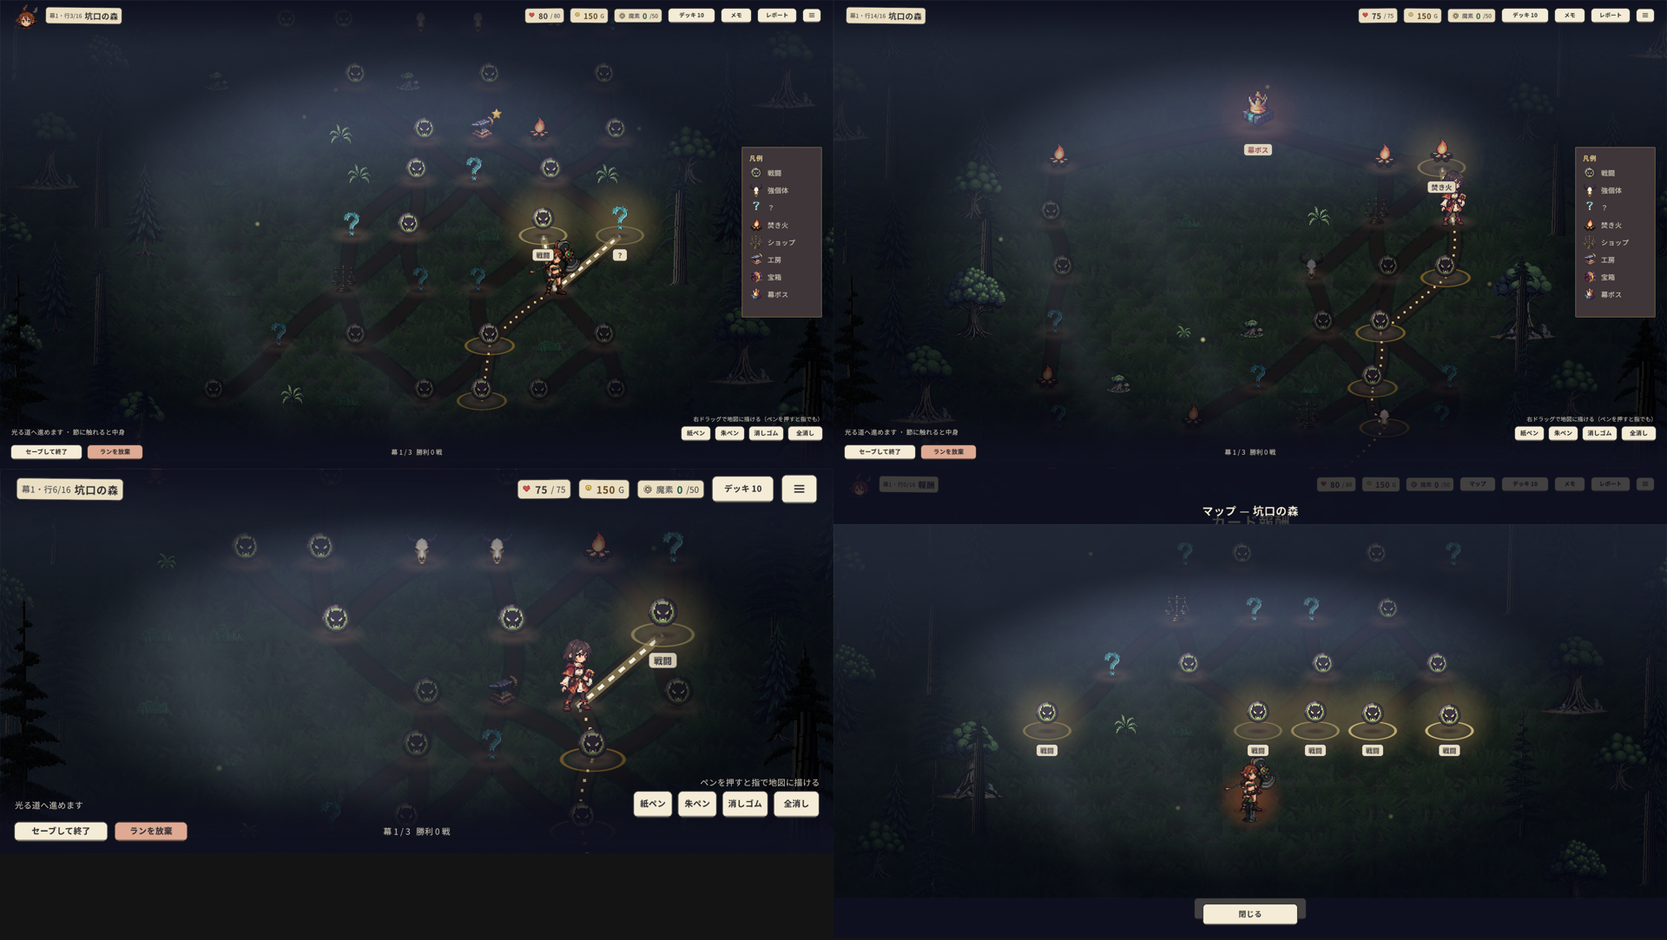
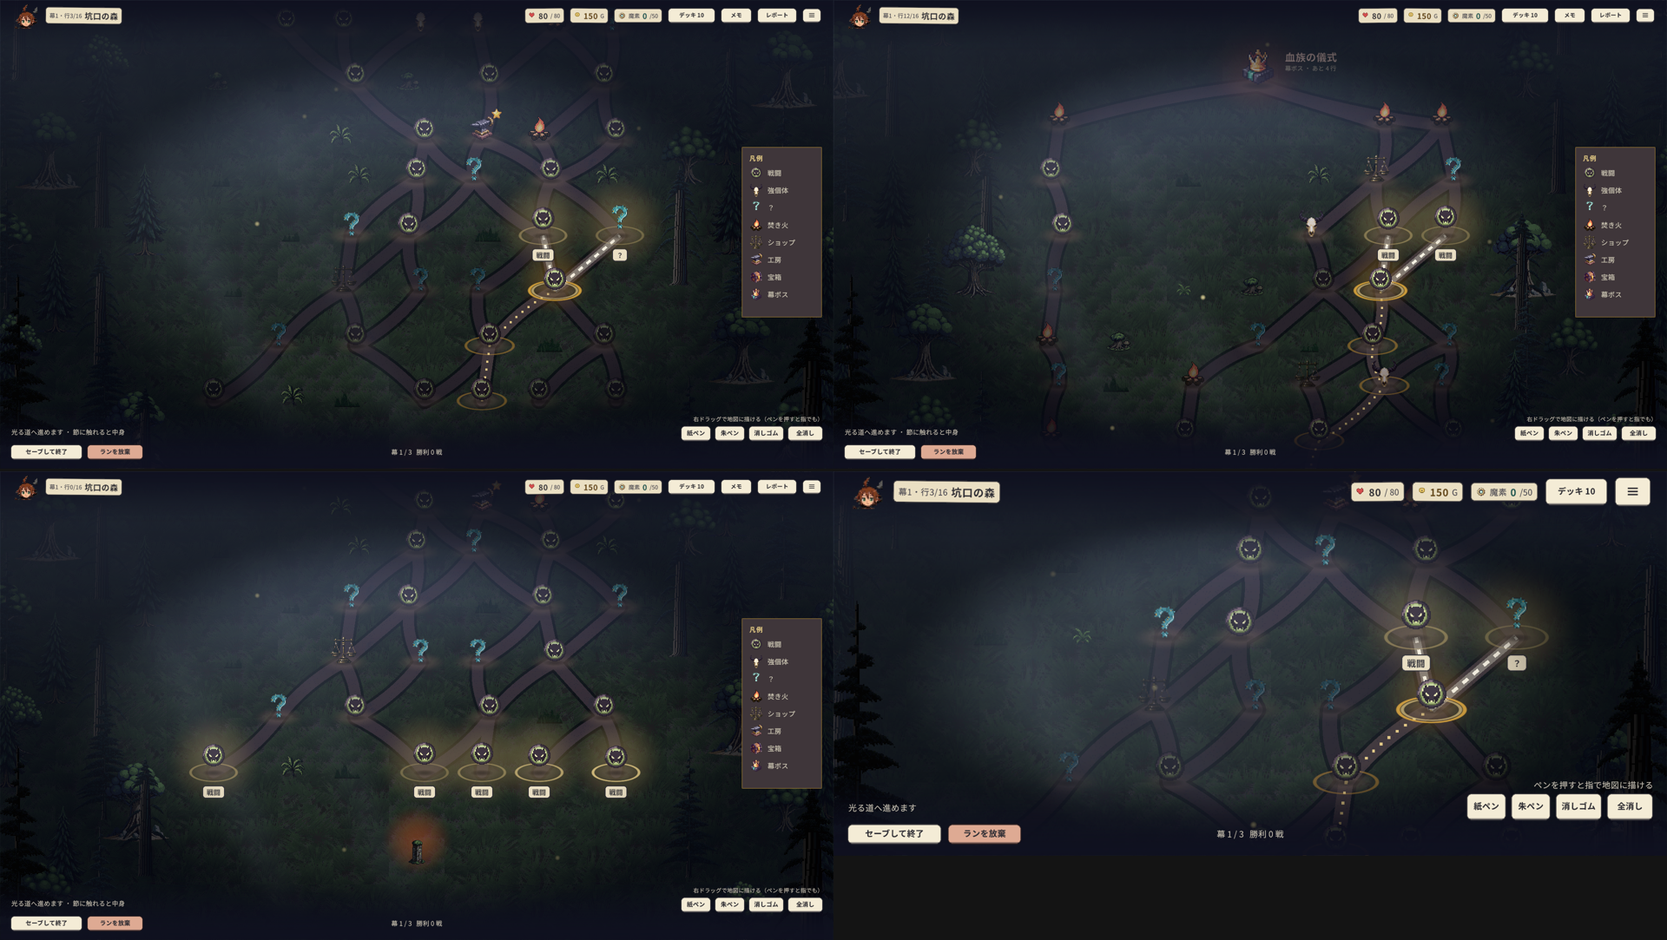
ui(map): 道をデザイン案どおりに（sRGB で焼いた土の帯・丸い端・カンバスと同じ重ね順）／地図からキャラを外す（現在地は真鍮の二重の輪）
ユーザー「道が醜すぎる。デザイン案と全然違う」「マップにキャラいらない」。
- 原因: カンバスの α の帯は sRGB の重ね。Linear の Unity で同じ α を重ねると濁った暗い茶色になっていた
- MapForest.DirtState: 土の絵に夜の色を sRGB の式で焼く（.52/.62/.72）・LinearAlpha で暗い縁の α を換算・MapTrail.RoundCaps
- 駒と歩く動きを廃止・現在地は真鍮の二重の輪と光・ボスの名札は印の右に名前と「あと N 行」
- 明るさをカンバスに合わせた（地面 0.66・霧 0.30 ほか）

Claude-Session: https://claude.ai/code/session_01235vjjauSY25VrpCPXwiZo

diff --git a/unity/Assets/Game/MapScreen.cs b/unity/Assets/Game/MapScreen.cs
@@ -1,7 +1,7 @@
 // MapScreen.cs — マップ画面 (M3・2026-09-07): 本家式の縦スクロール地図。
 // 2026-10-28 品質スプリント 案1「夜の森の絵地図」(カンバス https://claude.ai/artifact/C8WiiTPfMSPD4jPFE2pi92 の Main・ユーザー裁定):
 // 戦闘の森 (幕1 の箱庭) の地面・道・木・岩の絵で、見下ろしの絵地図を組む。地面は夜の草のタイル (1ドット=2px)、道は土の踏み跡、
-// 節は空き地に立つ 32 ドットの印 (2倍)、両脇は針葉樹、上は霧に沈む。現在地にはリーダーが立ち、選ぶと踏み跡を歩いてから進む。
+// 節は空き地に立つ 32 ドットの印 (2倍)、両脇は針葉樹、上は霧に沈む。現在地は真鍮の輪 (地図にキャラは置かない。2026-10-28 ユーザー「マップにキャラいらない」)。
 // 材料 (夜の色に焼いた複製・踏み跡の帯・蛍の動き) は MapForest.cs。
 using System;
 using System.Collections.Generic;
@@ -19,10 +19,6 @@ namespace DeckRogue.Game
         const float RowH = 120f;       // 1行の高さ
         const float PadY = 220f;       // 上下の余白 (下は出発の道標と駒・下のボタンの帯、上はボスの名札)
         static float _ox = 0f;         // 節の格子の左端 (content の中の x)。地図は画面の幅いっぱいなので、格子を中央へ寄せる
-        static RectTransform _marker;  // 現在地の駒 (選んだ節へ歩いてから命令を出す)
-        static bool _walking;
-        static Vector2 _markerOff;     // 節の中心から駒の pivot まで (足元を節の 8px 下に)
-        const float MarkerDot = 2f;    // 駒は 1ドット＝2px (地面と同じ粒)
         static float NodeSize { get { return UiKit.Phone ? 74f : 60f; } }   // 画面の切り欠きの寄せの目安 (2026-09-14)
         const int Cols = 7;
 
@@ -49,7 +45,6 @@ namespace DeckRogue.Game
             int recipeCount = 0;   // ⭐ いま手元で作れるレシピ対の数 (工房ノードに添える。2026-09-12)
             try { recipeCount = Fusion.RecipePairsInDeck(run.Deck).Count; } catch (Exception) { }
 
-            _walking = false; _marker = null;
             var view = UiKit.NewRect("mapview", root);
             // 画面の切り欠き (パンチホール＝左端の縦の中央) に左の列のノードが掛かる狭い端末では、格子を右へ寄せる (2026-09-29 p10。S25 と PC は 0)
             var mcs = BattleScreen.CanvasSize(root);
@@ -123,10 +118,14 @@ namespace DeckRogue.Game
                 }
             }
 
-            // 踏み跡 (土の帯の下に暗い縁・上に夜の帯。通った道は真鍮の足跡、進める道は光る破線)。帯は 3 枚の Graphic (縁／土／上の重ね)
+            // 踏み跡 (カンバスの案1 と同じ: 暗い縁 38 の上に、土に夜の色を焼いた帯 26 を まだ先 → 通らなかった → 通った → 進める の順に重ね、
+            // 通った道は真鍮の足跡、進める道は光る破線。帯の端は丸い = 節でなめらかにつながる。2026-10-28 ユーザー「道が醜すぎる」)
             var trailBase = Trail(content, "trail-base", null);
-            var trailDirt = Trail(content, "trail-dirt", MapForest.Dirt(run.Act));
+            var trailFuture = Trail(content, "trail-future", MapForest.DirtState(run.Act, 1), 64f);
+            var trailPassed = Trail(content, "trail-passed", MapForest.DirtState(run.Act, 2), 64f);
+            var trailTaken = Trail(content, "trail-taken", MapForest.DirtState(run.Act, 0), 64f);
             var trailTop = Trail(content, "trail-top", null);
+            trailTop.RoundCaps = false;
             var edges = new List<Vector2[]>();
             for (int r = 0; r < rows - 1; r++)
             {
@@ -145,15 +144,13 @@ namespace DeckRogue.Game
                         Vector2 a = NodePos(n, r), b = NodePos(run.Map[r + 1][j], r + 1);
                         edges.Add(new[] { a, b });
                         var pts = Curve(a, b, r + (n.Col ?? 0));
-                        trailBase.Add(pts, 38f, new Color(0.02f, 0.03f, 0.06f, 0.55f));
-                        if (trailDirt.Tex != null) trailDirt.Add(pts, 26f, Color.white);
-                        else trailDirt.Add(pts, 26f, new Color(0.36f, 0.30f, 0.26f, 1f));
-                        Color night = taken || avail ? new Color(0.04f, 0.05f, 0.08f, 0.22f) : passed ? new Color(0.03f, 0.035f, 0.06f, 0.62f) : new Color(0.035f, 0.04f, 0.07f, 0.42f);
-                        trailTop.Add(pts, 26f, night);
-                        if (taken) trailTop.Add(pts, 5f, new Color(PaperFx.BrassLight.r, PaperFx.BrassLight.g, PaperFx.BrassLight.b, 0.9f), 2f, 16f);
+                        trailBase.Add(pts, 38f, new Color(0.024f, 0.031f, 0.063f, MapForest.LinearAlpha(0.55f)));   // rgba(6,8,16,.55)
+                        var band = taken || avail ? trailTaken : passed ? trailPassed : trailFuture;
+                        band.Add(pts, 26f, band.Tex != null ? Color.white : new Color(0.27f, 0.22f, 0.25f, 1f));
+                        if (taken) trailTop.Add(pts, 5f, new Color(PaperFx.BrassLight.r, PaperFx.BrassLight.g, PaperFx.BrassLight.b, 0.9f), 2f, 16f);   // 足跡 (1 17 の点)
                         if (avail)
                         {
-                            trailTop.Add(pts, 16f, new Color(PaperFx.BrassLight.r, PaperFx.BrassLight.g, PaperFx.BrassLight.b, 0.22f));
+                            trailTop.Add(pts, 14f, new Color(PaperFx.Paper3.r, PaperFx.Paper3.g, PaperFx.Paper3.b, 0.18f));   // 破線のにじみ (カンバスの glow)
                             trailTop.Add(pts, 6f, new Color(PaperFx.Paper3.r, PaperFx.Paper3.g, PaperFx.Paper3.b, 0.95f), 12f, 12f);
                         }
                     }
@@ -198,29 +195,7 @@ namespace DeckRogue.Game
             var doodle = doodleRt.gameObject.AddComponent<DoodleLayer>();
             doodle.Root = g; doodle.Strokes = g.DoodlesFor(run.Act); doodle.Editable = !overlay; doodle.raycastTarget = !overlay;
 
-            // 現在地の駒 (リーダーの絵を 1ドット＝2px で節の上に立てる。選ぶと踏み跡を歩く)
-            {
-                Vector2 at = run.Row >= 0 ? NodePos(run.Map[run.Row][run.Col], run.Row) : startPos;
-                var spr = Creature.Get("leaders", run.LeaderId, true);
-                var sh = UiKit.Pan(content, Color.white, "marker-shadow"); sh.sprite = ThemeFx.Shadow(); sh.raycastTarget = false;
-                Place(sh.rectTransform, at + new Vector2(0f, -8f), new Vector2(92f, 22f), new Vector2(0.5f, 0.5f));
-                var mk = new GameObject("marker", typeof(RectTransform), typeof(Image)).GetComponent<Image>();
-                mk.transform.SetParent(content, false);
-                mk.raycastTarget = false;
-                mk.sprite = spr;
-                float mw = spr != null ? spr.rect.width * MarkerDot : 128f, mh = spr != null ? spr.rect.height * MarkerDot : 128f;
-                float feet = spr != null ? Stage.FeetPad(spr) * mh : 0f;
-                float cx = MapForest.VisibleCenterX(spr);
-                mk.rectTransform.anchorMin = mk.rectTransform.anchorMax = new Vector2(0f, 0f);
-                mk.rectTransform.pivot = new Vector2(cx, 0f);
-                mk.rectTransform.sizeDelta = new Vector2(mw, mh);
-                _markerOff = new Vector2(0f, -8f - feet);
-                mk.rectTransform.anchoredPosition = at + _markerOff;
-                _marker = mk.rectTransform;
-                var follow = sh.gameObject.AddComponent<FollowMarker>(); follow.Marker = mk.rectTransform; follow.Offset = new Vector2(0f, feet);
-                Tween.Punch(mk.rectTransform, 0.12f, 0.6f, true);
-            }
-            labels.SetAsLastSibling();     // 名札は駒の上
+            labels.SetAsLastSibling();     // 名札は道と節の上
             doodleRt.SetAsLastSibling();   // 落書きはいちばん上 (右ドラッグ/ペンモードの時だけ入力を受ける)
 
             // 蛍 (森の上をゆっくり漂って明滅)
@@ -293,17 +268,6 @@ namespace DeckRogue.Game
             }
         }
 
-        /// <summary>駒の影を駒の足元に付いて行かせる (歩く間も)</summary>
-        class FollowMarker : MonoBehaviour
-        {
-            public RectTransform Marker; public Vector2 Offset;
-            void LateUpdate()
-            {
-                if (Marker == null) return;
-                ((RectTransform)transform).anchoredPosition = Marker.anchoredPosition + Offset;
-            }
-        }
-
         static long Key(int r, int c) { return ((long)r << 16) | (uint)c; }
 
         static Vector2 GridPos(int col, int row)
@@ -332,7 +296,7 @@ namespace DeckRogue.Game
             return pts;
         }
 
-        static MapTrail Trail(RectTransform content, string name, Texture tex)
+        static MapTrail Trail(RectTransform content, string name, Texture tex, float texPx = 128f)
         {
             var go = new GameObject(name, typeof(RectTransform), typeof(CanvasRenderer));
             go.transform.SetParent(content, false);
@@ -340,7 +304,7 @@ namespace DeckRogue.Game
             rt.anchorMin = Vector2.zero; rt.anchorMax = Vector2.one; rt.pivot = Vector2.zero;
             rt.offsetMin = Vector2.zero; rt.offsetMax = Vector2.zero;
             var t = go.AddComponent<MapTrail>();
-            t.Tex = tex; t.TexPx = 128f; t.raycastTarget = false;
+            t.Tex = tex; t.TexPx = texPx * 2f; t.raycastTarget = false;
             return t;
         }
 
@@ -420,7 +384,7 @@ namespace DeckRogue.Game
                     if (!clear) continue;
                     var sp = MapForest.Graded(relief + small[rnd.Next(small.Length)], 0.7f, 10f);
                     if (sp == null) continue;
-                    var img = Pic(content, "prop", sp, 0.72f + (float)rnd.NextDouble() * 0.12f);
+                    var img = Pic(content, "prop", sp, 0.5f + (float)rnd.NextDouble() * 0.1f);
                     Place(img.rectTransform, p, new Vector2(sp.rect.width, sp.rect.height), new Vector2(0.5f, 0f));
                 }
             }
@@ -436,9 +400,9 @@ namespace DeckRogue.Game
                 return img;
             }
             // 夜の青 (上ほど青く・下は暗く)
-            var gTop = Layer("grade-top", MapForest.VFade(), new Color(0.16f, 0.20f, 0.38f, 0.18f));
+            var gTop = Layer("grade-top", MapForest.VFade(), new Color(0.16f, 0.20f, 0.38f, 0.08f));
             UiKit.Anchor(gTop.rectTransform, new Vector2(0f, 0.5f), new Vector2(1f, 1f), Vector2.zero, Vector2.zero);
-            var gBot = Layer("grade-bottom", MapForest.VFade(), new Color(0.04f, 0.05f, 0.12f, 0.16f));
+            var gBot = Layer("grade-bottom", MapForest.VFade(), new Color(0.04f, 0.05f, 0.12f, 0f));
             UiKit.Anchor(gBot.rectTransform, new Vector2(0f, 0f), new Vector2(1f, 0.4f), Vector2.zero, Vector2.zero);
             gBot.rectTransform.localRotation = Quaternion.Euler(0f, 0f, 180f);
             // 月明かり (左上の手前から)
@@ -456,7 +420,7 @@ namespace DeckRogue.Game
                 sh.rectTransform.localRotation = Quaternion.Euler(0f, 0f, 24f);
             }
             // 上の霧 (遠い行ほど霞む)
-            var fog = Layer("fog", MapForest.VFade(), new Color(0.52f, 0.59f, 0.75f, 0.42f));
+            var fog = Layer("fog", MapForest.VFade(), new Color(0.52f, 0.59f, 0.75f, 0.30f));
             fog.rectTransform.anchorMin = new Vector2(0f, 1f); fog.rectTransform.anchorMax = new Vector2(1f, 1f);
             fog.rectTransform.pivot = new Vector2(0.5f, 1f);
             fog.rectTransform.sizeDelta = new Vector2(0f, Mathf.Min(560f, viewH * (UiKit.Phone ? 0.36f : 0.55f)));
@@ -509,12 +473,18 @@ namespace DeckRogue.Game
             Soft("clearing", MapForest.Radial(), new Color(0.41f, 0.35f, 0.31f, passed && !taken && !cur ? 0.32f : 0.62f), Vector2.zero, boss ? new Vector2(190f, 64f) : new Vector2(124f, 48f));
             Image ring = null;
             if (avail) ring = Soft("ring", MapForest.Ring(), new Color(PaperFx.BrassLight.r, PaperFx.BrassLight.g, PaperFx.BrassLight.b, 0.85f), new Vector2(0f, 0f), new Vector2(114f, 44f));
-            if (taken && !cur) Soft("ring-taken", MapForest.Ring(), new Color(PaperFx.Brass.r, PaperFx.Brass.g, PaperFx.Brass.b, 0.5f), Vector2.zero, new Vector2(118f, 44f));
-            if (!cur) Soft("shadow", ThemeFx.Shadow(), Color.white, new Vector2(0f, -1f), new Vector2(boss ? 80f : 54f, boss ? 20f : 15f));
+            if (cur)
+            {
+                // 現在地: 真鍮の輪を二重にして光らせる (キャラは置かない)
+                Soft("cur-glow", MapForest.Radial(), new Color(PaperFx.Brass.r, PaperFx.Brass.g, PaperFx.Brass.b, 0.32f), new Vector2(0f, 24f), new Vector2(190f, 170f));
+                Soft("ring-cur", MapForest.Ring(), PaperFx.Brass, Vector2.zero, new Vector2(126f, 48f));
+                Soft("ring-cur2", MapForest.Ring(), new Color(PaperFx.BrassLight.r, PaperFx.BrassLight.g, PaperFx.BrassLight.b, 0.7f), Vector2.zero, new Vector2(110f, 40f));
+            }
+            else if (taken) Soft("ring-taken", MapForest.Ring(), new Color(PaperFx.Brass.r, PaperFx.Brass.g, PaperFx.Brass.b, 0.5f), Vector2.zero, new Vector2(118f, 44f));
+            Soft("shadow", ThemeFx.Shadow(), Color.white, new Vector2(0f, -1f), new Vector2(boss ? 80f : 54f, boss ? 20f : 15f));
 
             // 印 (32 ドットを 2 倍。足元が空き地の中心の 4px 下。進める節は少し浮く)
             Image icon = null;
-            if (!cur)
             {
                 var nodeArt = Theme.Art("map", "node_" + n.Type);
                 icon = UiKit.Icon(cell, NodeIcon(n.Type), boss ? 56f : 34f);
@@ -524,20 +494,33 @@ namespace DeckRogue.Game
                 icon.rectTransform.pivot = new Vector2(0.5f, 0f);
                 icon.rectTransform.sizeDelta = new Vector2(asz, asz); UiKit.Le(icon, asz, asz, asz, asz);
                 icon.rectTransform.anchoredPosition = new Vector2(0f, avail ? 8f : -4f);
-                icon.color = avail || boss ? Color.white : taken ? new Color(0.64f, 0.62f, 0.66f, 1f) : passed ? new Color(0.42f, 0.42f, 0.48f, 0.8f) : new Color(0.86f, 0.86f, 0.9f, 1f);
+                icon.color = avail || boss || cur ? Color.white : taken ? new Color(0.64f, 0.62f, 0.66f, 1f) : passed ? new Color(0.42f, 0.42f, 0.48f, 0.8f) : new Color(0.86f, 0.86f, 0.9f, 1f);
                 if (avail && life != null) { life.Bobs.Add(icon.rectTransform); if (ring != null) life.Pulses.Add(ring); }
             }
 
-            // 名札 (進める節とボス)
-            if (avail || boss)
+            // ボスの名札 (カンバスの案1: 印の右に名前と「幕ボス ・ あと N 行」)
+            if (boss)
+            {
+                string bname = "幕ボス";
+                if (n.EncounterId != null) { try { bname = Content.EncounterName(n.EncounterId); } catch (Exception) { } }
+                int left = Math.Max(0, row - g.Rs.Row);
+                var bt = UiKit.Txt(labels, bname, 24, PaperFx.RoseLight, TextAnchor.MiddleLeft, true);
+                bt.outlineWidth = 0.22f; bt.outlineColor = new Color(0f, 0f, 0f, 0.85f); bt.raycastTarget = false;
+                Place(bt.rectTransform, at + new Vector2(62f, 66f), new Vector2(360f, 32f), new Vector2(0f, 0.5f));
+                var bs = UiKit.Txt(labels, "幕ボス ・ あと " + left + " 行", 14, PaperFx.PaperDim, TextAnchor.MiddleLeft);
+                bs.outlineWidth = 0.2f; bs.outlineColor = new Color(0f, 0f, 0f, 0.85f); bs.raycastTarget = false;
+                Place(bs.rectTransform, at + new Vector2(62f, 40f), new Vector2(360f, 22f), new Vector2(0f, 0.5f));
+            }
+            // 名札 (進める節)
+            if (avail && !boss)
             {
                 var tag = BattleScreen.Tag(labels, 30f, 0f);
                 tag.anchorMin = tag.anchorMax = Vector2.zero;
                 tag.pivot = new Vector2(0.5f, 1f);
                 tag.sizeDelta = new Vector2(80f, 30f);
-                tag.anchoredPosition = at + new Vector2(0f, boss ? -36f : -30f);
+                tag.anchoredPosition = at + new Vector2(0f, -30f);
                 var hg = tag.GetComponent<HorizontalLayoutGroup>(); if (hg != null) hg.childAlignment = TextAnchor.MiddleCenter;
-                var t = UiKit.Txt(tag, NodeName(n.Type), 16, boss ? PaperFx.BadInk : PaperFx.Ink, TextAnchor.MiddleCenter, true);
+                var t = UiKit.Txt(tag, NodeName(n.Type), 16, PaperFx.Ink, TextAnchor.MiddleCenter, true);
                 UiKit.Le(t, -1f, 26f, -1f, 26f);
             }
 
@@ -568,24 +551,10 @@ namespace DeckRogue.Game
                 btn.targetGraphic = icon != null ? (Graphic)icon : hit;
                 var cols = btn.colors; cols.highlightedColor = new Color(1.15f, 1.15f, 1.15f); cols.pressedColor = new Color(0.85f, 0.85f, 0.85f); btn.colors = cols;
                 int idx = index;
-                Vector2 dest = at;
                 btn.onClick.AddListener(delegate
                 {
-                    if (_walking) return;
                     Audio.Ui("node");
-                    var mk = _marker;
-                    if (mk == null) { g.Do(new RunCommand_ChooseNode { Col = idx }); return; }
-                    // 駒が踏み跡を歩いてから進む (0.55 秒・小さく弾む)
-                    _walking = true;
-                    Vector2 from = mk.anchoredPosition, to = dest + _markerOff;
-                    bool done = false;
-                    Action finish = delegate { if (done) return; done = true; _walking = false; g.Do(new RunCommand_ChooseNode { Col = idx }); };
-                    Tween.Run(0.55f, delegate (float k)
-                    {
-                        if (mk == null) return;
-                        float s = k * k * (3f - 2f * k);
-                        mk.anchoredPosition = Vector2.Lerp(from, to, s) + new Vector2(0f, Mathf.Round(Mathf.Abs(Mathf.Sin(k * Mathf.PI * 3f)) * 3f) * 2f);
-                    }, Ease.Linear, delegate { finish(); }, delegate { _walking = false; });
+                    g.Do(new RunCommand_ChooseNode { Col = idx });
                 });
             }
         }

diff --git a/unity/Assets/Game/MapForest.cs b/unity/Assets/Game/MapForest.cs
@@ -82,7 +82,7 @@ namespace DeckRogue.Game
                     var src = tiles[pick].GetPixels32();
                     for (int y = 0; y < S; y++)
                         for (int x = 0; x < S; x++)
-                            px[(ty * S + y) * N * S + tx * S + x] = Grade(src[y * S + x], 0.58f, 0.62f, 16f, NightMul);
+                            px[(ty * S + y) * N * S + tx * S + x] = Grade(src[y * S + x], 0.66f, 0.55f, 16f, NightMul);
                 }
             t.SetPixels32(px); t.Apply(false, true);
             _tex[key] = t;
@@ -111,6 +111,40 @@ namespace DeckRogue.Game
             _tex[key] = t;
             return t;
         }
+
+        /// <summary>
+        /// 踏み跡の土に夜の色を重ねて焼いた物 (2026-10-28 ユーザー「道が醜すぎる。デザイン案と全然違う」)。カンバスの案1 は土の模様 (top_path_a を 2 倍) の上に
+        /// rgba(20,28,58,.52) などの帯を sRGB で重ねている。Unity (Linear の色空間) で α の帯を重ねると暗く濁るので、ブラウザと同じ sRGB の式で画素に焼き、不透明で描く。
+        /// state: 0 進める・通った (.52) / 1 まだ先 (.62) / 2 通らなかった (.72)
+        /// </summary>
+        public static Texture2D DirtState(int act, int state)
+        {
+            string key = "dirt" + act + "s" + state;
+            Texture2D t;
+            if (_tex.TryGetValue(key, out t)) return t;
+            var src = Readable(Folder(act) + "/tiles/top_path_a") ?? Readable(Folder(1) + "/tiles/top_path_a");
+            if (src == null || src.width != 64 || src.height != 64) { _tex[key] = null; return null; }
+            Color32 c; float a;
+            switch (state)
+            {
+                case 1: c = new Color32(18, 24, 52, 255); a = 0.62f; break;
+                case 2: c = new Color32(12, 16, 36, 255); a = 0.72f; break;
+                default: c = new Color32(20, 28, 58, 255); a = 0.52f; break;
+            }
+            var px = src.GetPixels32();
+            for (int i = 0; i < px.Length; i++)
+            {
+                var p = px[i];
+                px[i] = new Color32((byte)Mathf.RoundToInt(p.r * (1f - a) + c.r * a), (byte)Mathf.RoundToInt(p.g * (1f - a) + c.g * a), (byte)Mathf.RoundToInt(p.b * (1f - a) + c.b * a), 255);
+            }
+            t = NewTex(64, 64, true, true);
+            t.SetPixels32(px); t.Apply(false, true);
+            _tex[key] = t;
+            return t;
+        }
+
+        /// <summary>sRGB の α (ブラウザの重ね) を Linear の重ねで同じ暗さにする α (黒に近い色の重ねだけに使う。.55 → .83)</summary>
+        public static float LinearAlpha(float srgbAlpha) { return 1f - Mathf.Pow(1f - srgbAlpha, 2.2f); }
 
         /// <summary>木・岩・茂みの絵を夜の色に焼いた Point の複製 (path は Resources の中の道)。明るさは Image.color で掛ける</summary>
         public static Sprite Graded(string path, float sat, float hue)
@@ -225,6 +259,9 @@ namespace DeckRogue.Game
         public float TexPx = 128f;
         public override Texture mainTexture { get { return Tex != null ? Tex : s_WhiteTexture; } }
 
+        /// <summary>帯の両端を丸める (SVG の stroke-linecap: round。節で帯がなめらかにつながる)</summary>
+        public bool RoundCaps = true;
+
         struct Stroke { public List<Vector2> P; public float W; public Color32 C; public float Dash, Gap; }
         readonly List<Stroke> _strokes = new List<Stroke>();
 
@@ -233,6 +270,21 @@ namespace DeckRogue.Game
             if (pts == null || pts.Count < 2) return;
             _strokes.Add(new Stroke { P = pts, W = width, C = color, Dash = dash, Gap = gap });
             SetVerticesDirty();
+        }
+
+        void Cap(VertexHelper vh, Vector2 c, Vector2 dir, float w, Color32 col)
+        {
+            // dir の向きへ半円の扇 (10 分割)
+            int center = vh.currentVertCount;
+            Vert(vh, c, col);
+            float r = w * 0.5f, a0 = Mathf.Atan2(dir.y, dir.x) - Mathf.PI * 0.5f;
+            const int N = 10;
+            for (int i = 0; i <= N; i++)
+            {
+                float a = a0 + Mathf.PI * i / N;
+                Vert(vh, c + new Vector2(Mathf.Cos(a), Mathf.Sin(a)) * r, col);
+            }
+            for (int i = 0; i < N; i++) vh.AddTriangle(center, center + 1 + i, center + 2 + i);
         }
 
         protected override void OnPopulateMesh(VertexHelper vh)
@@ -267,6 +319,11 @@ namespace DeckRogue.Game
                 int k = start + i * 2;
                 vh.AddTriangle(k, k + 1, k + 3);
                 vh.AddTriangle(k, k + 3, k + 2);
+            }
+            if (RoundCaps && w > 6f)
+            {
+                Cap(vh, p[0], (p[0] - p[1]).normalized, w, c);
+                Cap(vh, p[n - 1], (p[n - 1] - p[n - 2]).normalized, w, c);
             }
         }
 
